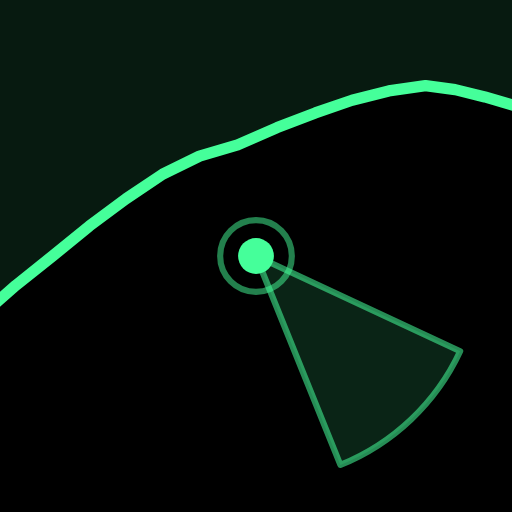
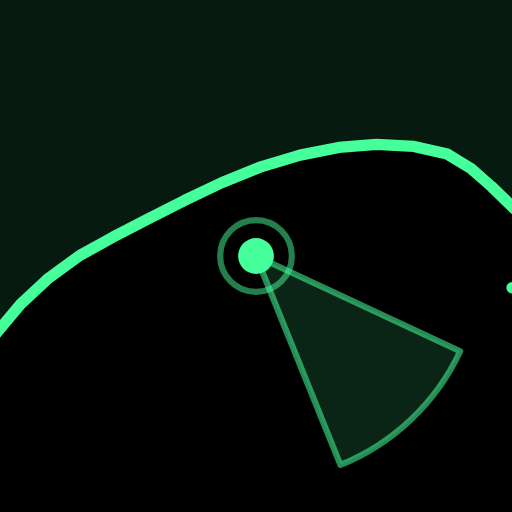
Radar: back to the satellite trace, landmark labels, period-axis color
Remove the sketch-derived rocks/breaks/lot/path and restore the
original satellite coastline (shore + pond, lineup at frame center),
keeping the fill-height + top-crop framing. Label the swell-window
edges MONTAUK PT (southern, 158°) and SOUTHWEST PT (BLOCK) (eastern,
115°) in small Orbitron. Icons regenerated from the restored shore.
Site-wide: the swell chart's period axis labels now use the period
line's own color.

Claude-Session: https://claude.ai/code/session_01MdzzbVcsogLS6mtEZesNUQ

Changed region(s): [[0.0, 0.1562, 1.0, 0.6562], [0.9688, 0.5312, 1.0, 0.5938]]

diff --git a/kiosk.js b/kiosk.js
@@ -393,54 +393,30 @@ function kioskRenderDays() {
 // second (KIOSK.radarStepMs) through the full forecast, looping, with
 // the live swell chart + its moving dots visible below the scope.
 
-// OWNER-TRACED COASTLINE — digitized from the owner's sketch (traced
-// over the radar frame, with their features drawn in). Points are
-// normalized 0..1 [x, y] over the sketch's own frame (aspect below),
-// listed SW end → E end; land is above/left of the shore. `lineup` is
-// the arrows' convergence point, seated just seaward of the traced
-// wave-break lines on the reef.
+// COASTLINE — hand-traced from project/assets/lineup.jpg (1992×949).
+// Points are normalized 0..1 [x, y] over that image frame, listed
+// upcoast → downcoast; `lineup` is the arrows' convergence point
+// (image center, matching the lineup-map overlay). Land is everything
+// above/left of the shore polyline.
 const KIOSK_COAST = {
-  aspect: 2.122,
-  lineup: [0.482, 0.306],
+  aspect: 1992 / 949,
+  lineup: [0.5, 0.5],
   shore: [
-    [0.013, 0.978], [0.058, 0.942], [0.102, 0.917], [0.139, 0.894],
-    [0.160, 0.880], [0.156, 0.833], [0.159, 0.772], [0.168, 0.711],
-    [0.181, 0.656], [0.196, 0.606], [0.215, 0.556], [0.236, 0.506],
-    [0.259, 0.456], [0.285, 0.400], [0.312, 0.350], [0.338, 0.306],
-    [0.364, 0.261], [0.390, 0.220], [0.416, 0.183], [0.442, 0.156],
-    [0.469, 0.139], [0.497, 0.113], [0.524, 0.091], [0.550, 0.072],
-    [0.576, 0.058], [0.602, 0.050], [0.623, 0.056], [0.644, 0.067],
-    [0.665, 0.080], [0.686, 0.098], [0.702, 0.120], [0.717, 0.150],
-    [0.730, 0.183], [0.743, 0.220], [0.759, 0.244], [0.780, 0.267],
-    [0.806, 0.291], [0.838, 0.313], [0.869, 0.330], [0.901, 0.344],
-    [0.932, 0.353], [0.963, 0.356], [0.992, 0.359]
+    [0.216, 1.000], [0.199, 0.915], [0.201, 0.845], [0.216, 0.775],
+    [0.238, 0.708], [0.259, 0.649], [0.281, 0.594], [0.306, 0.545],
+    [0.336, 0.499], [0.367, 0.463], [0.399, 0.428], [0.433, 0.392],
+    [0.468, 0.357], [0.503, 0.327], [0.541, 0.303], [0.577, 0.288],
+    [0.612, 0.282], [0.647, 0.286], [0.678, 0.301], [0.700, 0.329],
+    [0.719, 0.364], [0.741, 0.409], [0.766, 0.451], [0.796, 0.482],
+    [0.833, 0.508], [0.874, 0.527], [0.919, 0.544], [0.963, 0.556],
+    [1.000, 0.562]
   ],
-  ponds: [],
-  // The owner's drawn features, in their traced positions: rock spots,
-  // the wave-break lines on the reef, the parking lot, and the path
-  // from the lot down to the beach.
-  rocks: [
-    [0.460, 0.186], [0.467, 0.174], [0.475, 0.167], [0.483, 0.162],
-    [0.490, 0.169], [0.496, 0.176], [0.503, 0.180], [0.485, 0.181],
-    [0.474, 0.183],
-    [0.284, 0.473], [0.292, 0.489], [0.288, 0.513], [0.299, 0.520],
-    [0.304, 0.500], [0.318, 0.531],
-    [0.198, 0.602], [0.203, 0.622], [0.195, 0.647], [0.200, 0.667],
-    [0.204, 0.689], [0.196, 0.713],
-    [0.166, 0.887], [0.174, 0.902], [0.170, 0.922], [0.177, 0.936],
-    [0.172, 0.956],
-    [0.792, 0.298], [0.801, 0.307], [0.817, 0.311], [0.825, 0.318],
-    [0.842, 0.322], [0.854, 0.331], [0.866, 0.339], [0.874, 0.344],
-    [0.904, 0.351], [0.916, 0.359], [0.929, 0.364],
-    [0.969, 0.358], [0.979, 0.364], [0.988, 0.369]
-  ],
-  breaks: [
-    [[0.385, 0.302], [0.445, 0.233], [0.503, 0.164]],
-    [[0.460, 0.299], [0.526, 0.230]],
-    [[0.509, 0.343], [0.530, 0.320]]
-  ],
-  lot: [[0.325, 0.058], [0.336, 0.056], [0.350, 0.169], [0.338, 0.178]],
-  path: [[0.344, 0.173], [0.356, 0.187], [0.372, 0.191], [0.390, 0.183]]
+  ponds: [[
+    [0.667, 0.290], [0.673, 0.245], [0.690, 0.212], [0.712, 0.200],
+    [0.733, 0.208], [0.744, 0.238], [0.749, 0.275], [0.757, 0.300],
+    [0.752, 0.345], [0.735, 0.378], [0.712, 0.392], [0.692, 0.380],
+    [0.678, 0.350], [0.669, 0.318]
+  ]]
 };
 
 const KIOSK_RADAR = { idx: -1, sweep: 0, raf: null, lastT: 0 };
@@ -508,14 +484,16 @@ function kioskRadarPaint() {
   if (!w || !h) return;
 
   const G = '#45ff9a';
-  // The canvas fills the screen; the owner's trace keeps its true
-  // proportions contain-fitted and centered. Both shore ends extend
-  // along their own headings past the canvas edges so the coast never
-  // stops mid-air, whatever the screen shape.
+  // The canvas fills the screen; the coastline trace keeps its true
+  // proportions filled to the canvas height with the top 15% of the
+  // frame cropped away (all land) — the water gets the pixels. The
+  // shore's right end extends straight to the canvas edge so the coast
+  // never stops mid-air.
   const FRAME_ASPECT = KIOSK_COAST.aspect;
-  let fw = w, fh = w / FRAME_ASPECT;
-  if (fh > h) { fh = h; fw = h * FRAME_ASPECT; }
-  const fx = (w - fw) / 2, fy = (h - fh) / 2;
+  const CROP = 0.15; // top slice of the frame hidden off-canvas
+  const fh = h / (1 - CROP);
+  const fw = fh * FRAME_ASPECT;
+  const fx = (w - fw) / 2, fy = -CROP * fh;
   const lx = fx + KIOSK_COAST.lineup[0] * fw, ly = fy + KIOSK_COAST.lineup[1] * fh;
   const rMax = h * 0.62;
   const px = p => [fx + p[0] * fw, fy + p[1] * fh];
@@ -525,24 +503,15 @@ function kioskRadarPaint() {
     for (let i = 1; i < pts.length; i++) { const [x, y] = px(pts[i]); ctx.lineTo(x, y); }
   };
   const shore = KIOSK_COAST.shore;
-  // Off-canvas extensions of the first/last shore segments.
-  const EXT = w + h;
-  const ext = (a, b) => {
-    const [ax, ay] = px(a), [bx, by] = px(b);
-    const d = Math.hypot(ax - bx, ay - by) || 1;
-    return [ax + ((ax - bx) / d) * EXT, ay + ((ay - by) / d) * EXT];
-  };
-  const extStart = ext(shore[0], shore[1]);
-  const extEnd = ext(shore[shore.length - 1], shore[shore.length - 2]);
+  const shoreEndY = fy + shore[shore.length - 1][1] * fh;
 
   // Faceplate + land mass (everything above/left of the shore line).
   ctx.fillStyle = '#000';
   ctx.fillRect(0, 0, w, h);
   ctx.beginPath();
-  ctx.moveTo(extStart[0], extStart[1]);
   trace(shore);
-  ctx.lineTo(extEnd[0], extEnd[1]);
-  ctx.lineTo(w + EXT, -EXT); ctx.lineTo(-EXT, -EXT);
+  ctx.lineTo(w, shoreEndY);
+  ctx.lineTo(w, 0); ctx.lineTo(0, 0); ctx.lineTo(0, h);
   ctx.closePath();
   ctx.fillStyle = 'rgba(69, 255, 154, 0.06)';
   ctx.fill();
@@ -578,11 +547,10 @@ function kioskRadarPaint() {
   }
   ctx.restore();
 
-  // Coastline stroke on top of the sweep.
+  // Coastline stroke + ponds on top of the sweep.
   ctx.beginPath();
-  ctx.moveTo(extStart[0], extStart[1]);
   trace(shore);
-  ctx.lineTo(extEnd[0], extEnd[1]);
+  ctx.lineTo(w, shoreEndY);
   ctx.strokeStyle = 'rgba(69, 255, 154, 0.9)';
   ctx.lineWidth = 1.5;
   ctx.lineJoin = 'round';
@@ -598,43 +566,6 @@ function kioskRadarPaint() {
     ctx.stroke();
   }
 
-  // Owner-traced features. Rocks: dark spots with a faint rim.
-  const rockR = Math.max(2, fh * 0.006);
-  for (let ri = 0; ri < KIOSK_COAST.rocks.length; ri++) {
-    const [rx, ry] = px(KIOSK_COAST.rocks[ri]);
-    ctx.beginPath();
-    ctx.arc(rx, ry, rockR * (0.8 + (ri % 3) * 0.25), 0, Math.PI * 2);
-    ctx.fillStyle = '#000';
-    ctx.fill();
-    ctx.strokeStyle = 'rgba(69, 255, 154, 0.5)';
-    ctx.lineWidth = 1;
-    ctx.stroke();
-  }
-  // Wave-break lines on the reef.
-  ctx.setLineDash([8, 5]);
-  ctx.strokeStyle = 'rgba(69, 255, 154, 0.5)';
-  ctx.lineWidth = 2;
-  for (const line of KIOSK_COAST.breaks) {
-    ctx.beginPath();
-    trace(line);
-    ctx.stroke();
-  }
-  ctx.setLineDash([]);
-  // Parking lot + the path down to the beach.
-  ctx.beginPath();
-  trace(KIOSK_COAST.lot);
-  ctx.closePath();
-  ctx.strokeStyle = 'rgba(69, 255, 154, 0.4)';
-  ctx.lineWidth = 1.5;
-  ctx.stroke();
-  ctx.beginPath();
-  trace(KIOSK_COAST.path);
-  ctx.setLineDash([3, 4]);
-  ctx.strokeStyle = 'rgba(69, 255, 154, 0.35)';
-  ctx.lineWidth = 1.5;
-  ctx.stroke();
-  ctx.setLineDash([]);
-
   // Swell window cone (compass bearing θ → canvas angle θ − 90°).
   const c1 = CONFIG.chocomount.swellWindowMin * Math.PI / 180 - Math.PI / 2;
   const c2 = CONFIG.chocomount.swellWindowMax * Math.PI / 180 - Math.PI / 2;
@@ -647,6 +578,24 @@ function kioskRadarPaint() {
   ctx.strokeStyle = 'rgba(69, 255, 154, 0.16)';
   ctx.lineWidth = 1;
   ctx.stroke();
+
+  // The window's real-world frame: its southern edge points at Montauk
+  // Point, its eastern edge at Block Island's Southwest Point.
+  ctx.font = '500 11px "Orbitron", Tahoma, Geneva, sans-serif';
+  ctx.fillStyle = 'rgba(69, 255, 154, 0.55)';
+  const coneEdge = deg => {
+    const r = rMax * 0.92 + 8;
+    const th = deg * Math.PI / 180;
+    return [lx + r * Math.sin(th), ly - r * Math.cos(th)];
+  };
+  const [mtkX, mtkY] = coneEdge(CONFIG.chocomount.swellWindowMax);
+  ctx.textAlign = 'center';
+  ctx.textBaseline = 'top';
+  ctx.fillText('MONTAUK PT', mtkX, Math.min(mtkY, h - 16));
+  const [blkX, blkY] = coneEdge(CONFIG.chocomount.swellWindowMin);
+  ctx.textAlign = 'left';
+  ctx.textBaseline = 'middle';
+  ctx.fillText('SOUTHWEST PT (BLOCK)', blkX + 4, blkY);
 
   // ── The hour's arrows, converging on the lineup ──
   const fd = STATE.forecastData;
@@ -797,7 +746,7 @@ function kioskInfoHTML(panel) {
   };
   if (panel === 'radar') {
     return '<h3>Radar loop</h3>' +
-      '<p>The scope replays the forecast at 1 second per hour and loops. Arrows show primary swell, secondary swell (dimmer), and wind (dashed), each pointing the way it travels and converging on the Chocomount lineup; arrow length scales with energy. The shaded cone is the 115–158° swell window, and the chart below tracks the same hour. Tap to pause, tap again to resume; dragging the chart scrubs by hand. The coastline, rocks, reef break lines, parking lot, and beach path are traced from the owner’s own sketch of the spot.</p>' +
+      '<p>The scope replays the forecast at 1 second per hour and loops. Arrows show primary swell, secondary swell (dimmer), and wind (dashed), each pointing the way it travels and converging on the Chocomount lineup; arrow length scales with energy. The shaded cone is the 115–158° swell window, and the chart below tracks the same hour. Tap to pause, tap again to resume; dragging the chart scrubs by hand. The coastline is traced from the satellite lineup image; the window’s edges point at Montauk Point and Block Island’s Southwest Point.</p>' +
       '<h3>Sources</h3>' +
       '<p>Swell &amp; wind: Open-Meteo Marine and Weather forecast (best_match model) at the offshore forecast point. Tide: NOAA CO-OPS predictions, Silver Eel Pond station 8510719.</p>';
   }

diff --git a/scripts/generate_icons.js b/scripts/generate_icons.js
@@ -26,23 +26,20 @@ async function main() {
   const page = await browser.newPage();
 
   const dataUrls = await page.evaluate(sizes => {
-    // Mirror of KIOSK_COAST in kiosk.js (the owner-traced coastline,
-    // normalized over the sketch frame). Keep in sync by hand — this
-    // script never loads the page.
+    // Mirror of KIOSK_COAST in kiosk.js (normalized over the lineup.jpg
+    // frame, 1992×949; lineup at frame center). Keep in sync by hand —
+    // this script never loads the page.
     const SHORE = [
-      [0.013, 0.978], [0.058, 0.942], [0.102, 0.917], [0.139, 0.894],
-      [0.160, 0.880], [0.156, 0.833], [0.159, 0.772], [0.168, 0.711],
-      [0.181, 0.656], [0.196, 0.606], [0.215, 0.556], [0.236, 0.506],
-      [0.259, 0.456], [0.285, 0.400], [0.312, 0.350], [0.338, 0.306],
-      [0.364, 0.261], [0.390, 0.220], [0.416, 0.183], [0.442, 0.156],
-      [0.469, 0.139], [0.497, 0.113], [0.524, 0.091], [0.550, 0.072],
-      [0.576, 0.058], [0.602, 0.050], [0.623, 0.056], [0.644, 0.067],
-      [0.665, 0.080], [0.686, 0.098], [0.702, 0.120], [0.717, 0.150],
-      [0.730, 0.183], [0.743, 0.220], [0.759, 0.244], [0.780, 0.267],
-      [0.806, 0.291], [0.838, 0.313], [0.869, 0.330], [0.901, 0.344],
-      [0.932, 0.353], [0.963, 0.356], [0.992, 0.359]
+      [0.216, 1.000], [0.199, 0.915], [0.201, 0.845], [0.216, 0.775],
+      [0.238, 0.708], [0.259, 0.649], [0.281, 0.594], [0.306, 0.545],
+      [0.336, 0.499], [0.367, 0.463], [0.399, 0.428], [0.433, 0.392],
+      [0.468, 0.357], [0.503, 0.327], [0.541, 0.303], [0.577, 0.288],
+      [0.612, 0.282], [0.647, 0.286], [0.678, 0.301], [0.700, 0.329],
+      [0.719, 0.364], [0.741, 0.409], [0.766, 0.451], [0.796, 0.482],
+      [0.833, 0.508], [0.874, 0.527], [0.919, 0.544], [0.963, 0.556],
+      [1.000, 0.562]
     ];
-    const ASPECT = 2.122;
+    const ASPECT = 1992 / 949;
     const WIN_MIN = 115, WIN_MAX = 158; // swell window bearings
 
     function drawIcon(size) {
@@ -50,10 +47,10 @@ async function main() {
       c.width = size; c.height = size;
       const ctx = c.getContext('2d');
 
-      // Square crop of the frame, centered on the lineup point.
-      const LINEUP = [0.482, 0.306];
-      const fh = size * 1.3, fw = fh * ASPECT;
-      const fx = size / 2 - LINEUP[0] * fw, fy = size / 2 - LINEUP[1] * fh;
+      // Square crop of the frame, centered on the lineup: frame height =
+      // icon height, horizontal overflow cropped evenly.
+      const fh = size, fw = size * ASPECT;
+      const fx = (size - fw) / 2, fy = 0;
       const px = p => [fx + p[0] * fw, fy + p[1] * fh];
       const lx = size / 2, ly = size / 2;
 
@@ -65,8 +62,8 @@ async function main() {
       const [x0, y0] = px(SHORE[0]);
       ctx.moveTo(x0, y0);
       for (let i = 1; i < SHORE.length; i++) { const [x, y] = px(SHORE[i]); ctx.lineTo(x, y); }
-      ctx.lineTo(size * 3, size * 0.5);
-      ctx.lineTo(size * 3, -size); ctx.lineTo(-size, -size); ctx.lineTo(-size, size * 2);
+      ctx.lineTo(size, size * 0.562);
+      ctx.lineTo(size, 0); ctx.lineTo(0, 0); ctx.lineTo(0, size);
       ctx.closePath();
       ctx.fillStyle = 'rgba(69, 255, 154, 0.10)';
       ctx.fill();
@@ -75,7 +72,7 @@ async function main() {
       ctx.beginPath();
       ctx.moveTo(x0, y0);
       for (let i = 1; i < SHORE.length; i++) { const [x, y] = px(SHORE[i]); ctx.lineTo(x, y); }
-      ctx.lineTo(size * 3, size * 0.5);
+      ctx.lineTo(size, size * 0.562);
       ctx.strokeStyle = '#45ff9a';
       ctx.lineWidth = Math.max(2, size * 0.022);
       ctx.lineJoin = 'round';

diff --git a/app.js b/app.js
@@ -2021,12 +2021,16 @@ function drawSwellPanel(common, data) {
     const label = q === 0 ? `${v}ft` : String(v);
     ctx.fillText(label, plotLeft - 4, clampLabelY(top + (h * q / swellDiv)));
   }
+  // Period axis wears the period line's own color so the right-hand
+  // scale reads as belonging to that line.
   ctx.textAlign = 'left';
+  ctx.fillStyle = FC_RETRO.period;
   for (let q = 0; q <= swellDiv; q++) {
     const v = periodMax * (1 - q / swellDiv);
     const label = q === 0 ? `${v}s` : String(v);
     ctx.fillText(label, plotLeft + plotW + 4, clampLabelY(top + (h * q / swellDiv)));
   }
+  ctx.fillStyle = FC_RETRO.ink;
 
   // ── Direction sub-panel ──
   // Y-axis is compass degrees the swell is COMING FROM. The visible band

diff --git a/README.md b/README.md
@@ -69,11 +69,11 @@ bar moving in lockstep, and the clock in the scope's corner shows the
 frame's day, time, and offset from now. The panel dwells for one full
 loop (~168 s). Tapping the scope pauses the loop; tapping again
 resumes it in place (touches on the chart scrub it by hand — the radar
-follows the scrub). The coastline — plus the rock spots, reef
-wave-break lines, parking lot, and beach path — is the owner's own
-trace, digitized into the `KIOSK_COAST` constant in `kiosk.js`
-(normalized coords over the sketch frame; the PWA icon mirrors the
-same shore).
+follows the scrub). The coastline is traced from the satellite lineup
+image (`KIOSK_COAST` in `kiosk.js`; the PWA icon mirrors the same
+shore), and the swell-window cone's edges are labeled with the
+landmarks they point at — Montauk Point and Block Island's Southwest
+Point.
 
 Each day card reads: primary (and, when present, secondary) swell as the
 min–max height range over the incoming-tide windows at Silver Eel

diff --git a/CHANGELOG.md b/CHANGELOG.md
@@ -1,5 +1,18 @@
 # Changelog
 
+## [Unreleased] — Radar: back to the satellite trace, landmark labels, period-axis color
+
+The owner's sketch coastline and its features (rocks, break lines,
+lot, path) are removed — the positions hadn't survived the conversion —
+and the scope returns to the original satellite-derived trace (shore +
+pond, lineup at frame center) with the fill-height + 15% top-crop
+framing kept from the legibility pass. The swell-window cone's edges
+are now labeled in small Orbitron with what they actually point at:
+MONTAUK PT on the southern edge (158°), SOUTHWEST PT (BLOCK) on the
+eastern edge (115°). PWA icons regenerated from the restored shore.
+On the swell chart (site-wide), the right-hand period axis labels now
+render in the period line's own color so scale and line read as one.
+
 ## [Unreleased] — Radar: the owner's coastline replaces the provisional trace
 
 KIOSK_COAST is now the owner's own sketch, digitized in its native
